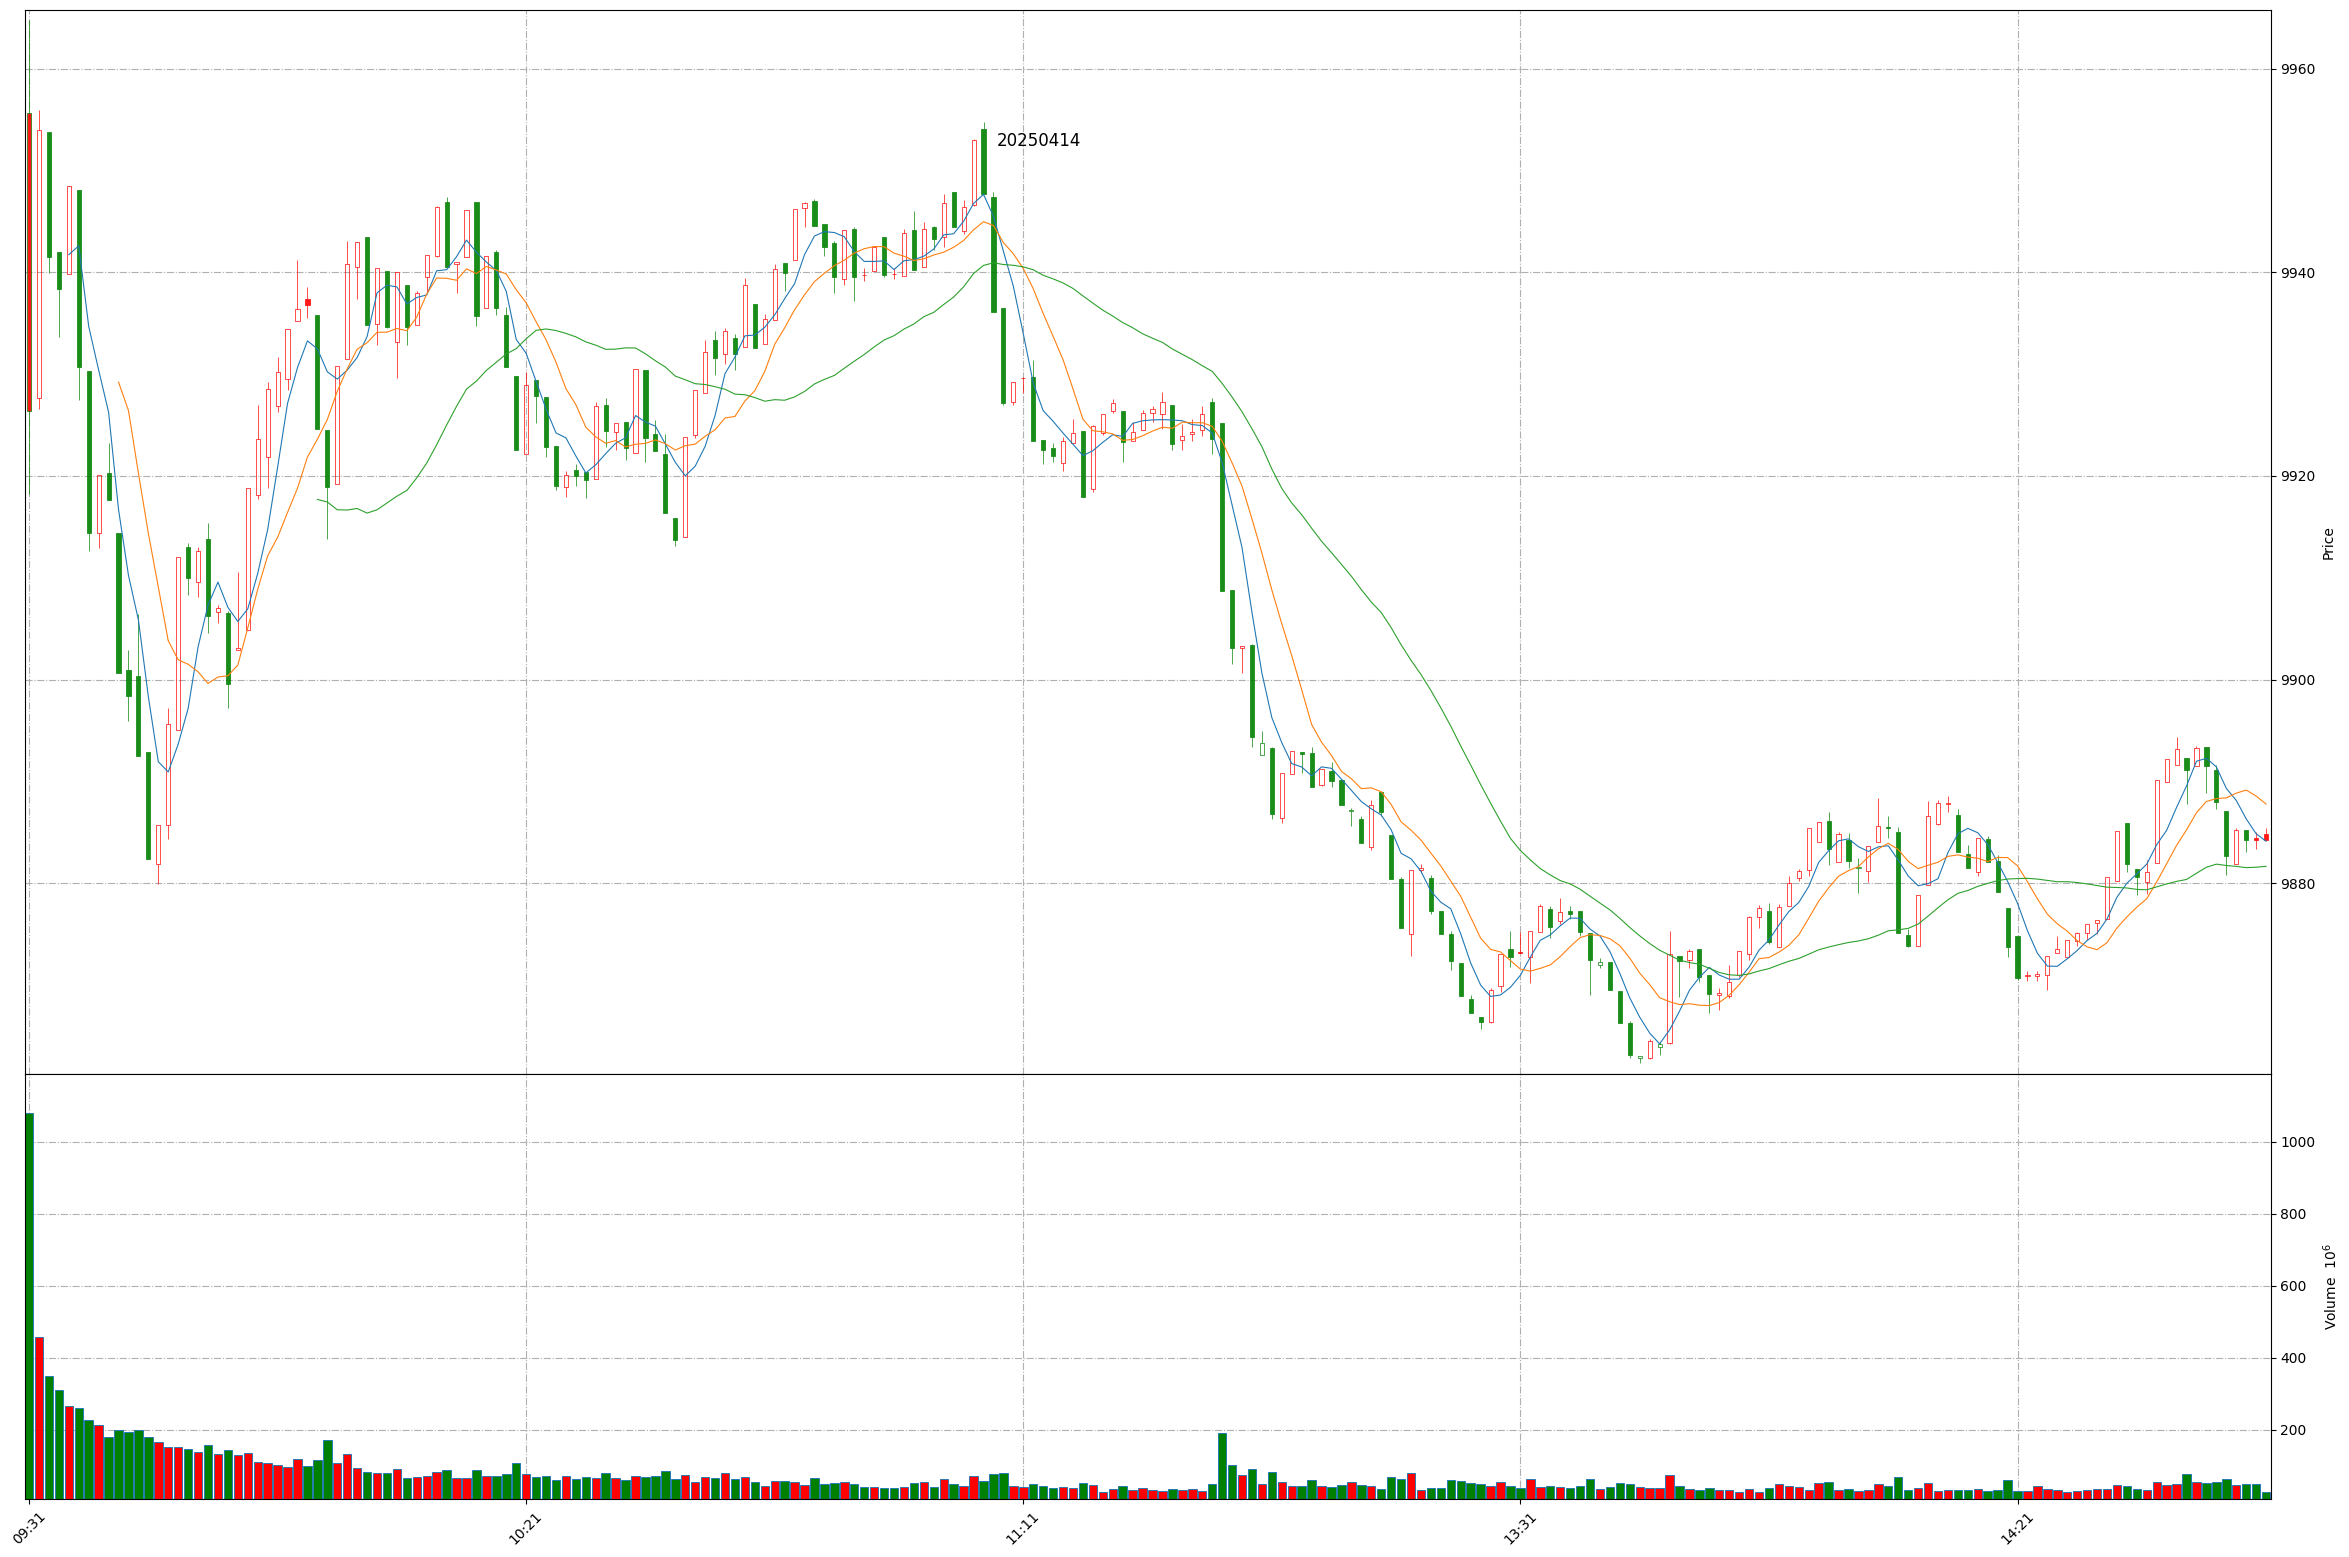
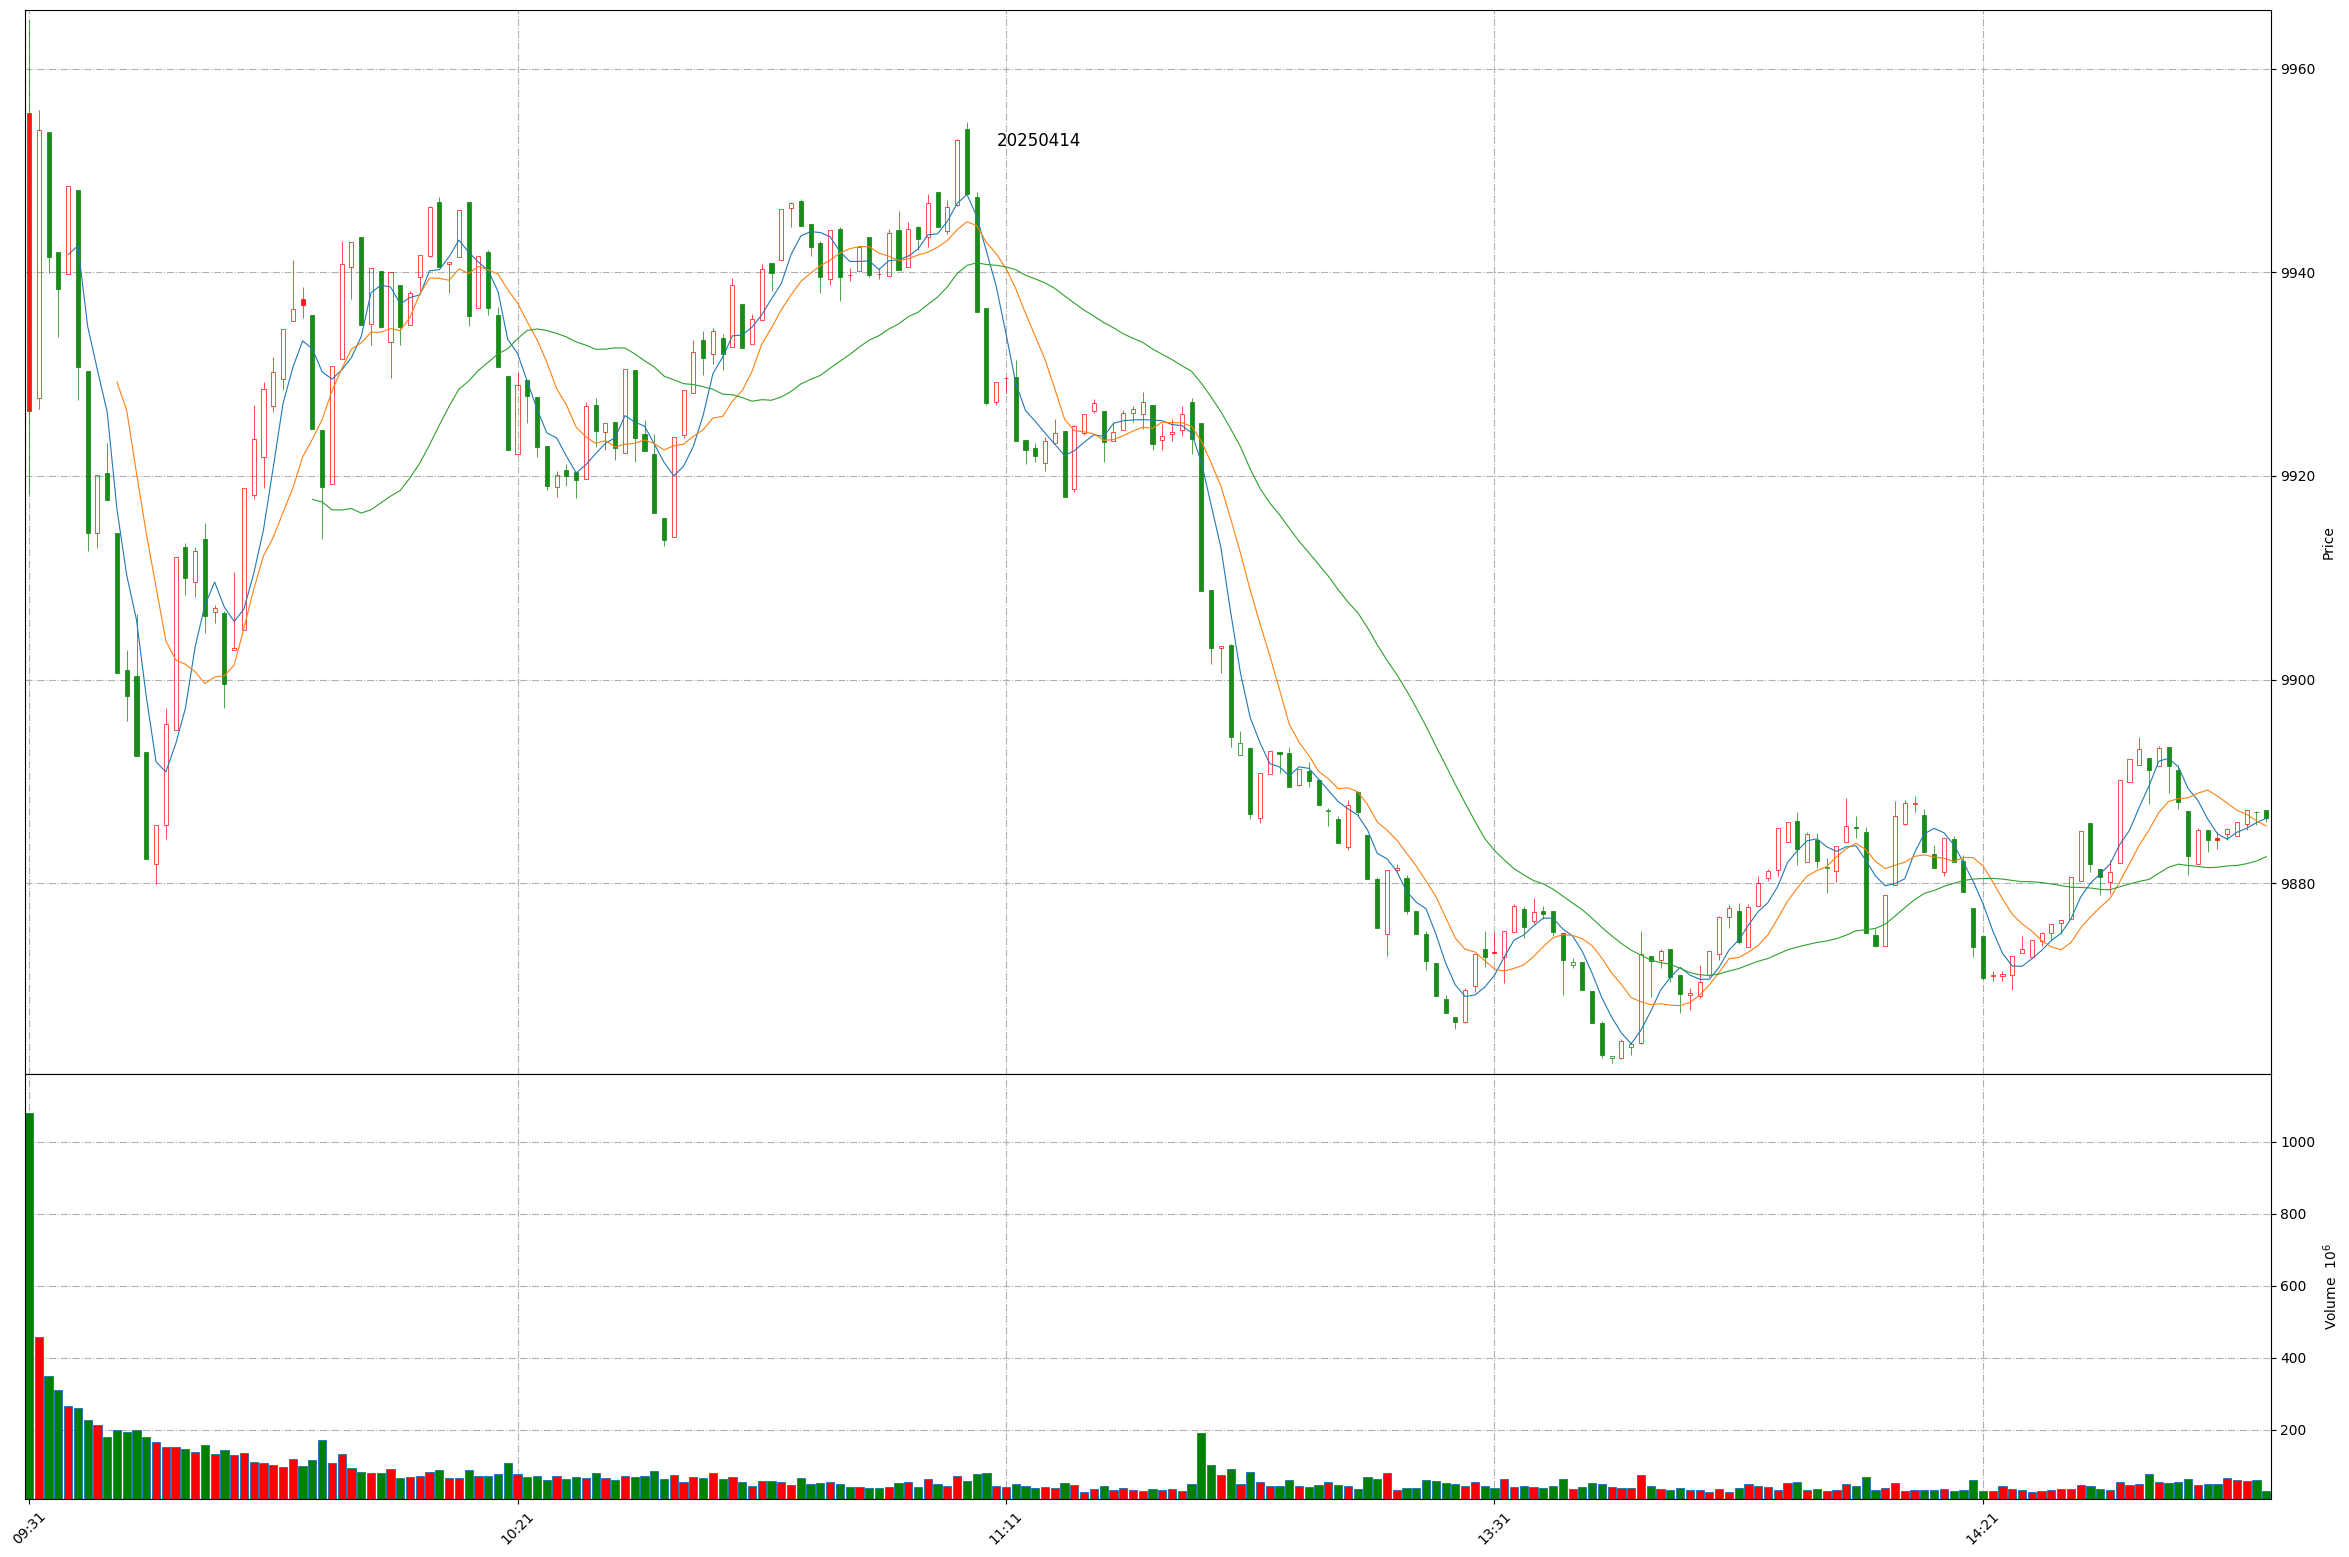
Github action update at 2025-04-14 14:49:41.

Changed region(s): [[0.0311, 0.0925, 0.9634, 0.6782], [0.0, 0.894, 0.9634, 0.9865]]

diff --git a/README.md b/README.md
@@ -1,11 +1,11 @@
 
 # Daily-A-share-market-quotes 每日 A 股指数（5min 更新）- 20250414
 
-### 上证指数 20250414 14:45
+### 上证指数 20250414 14:49
 ![](./fig/2025/4/20250414-sh000001.png)
 
-### 深证成指 20250414 14:45
+### 深证成指 20250414 14:49
 ![](./fig/2025/4/20250414-sz399001.png)
 
-### 北证50 20250414 14:45
+### 北证50 20250414 14:49
 ![](./fig/2025/4/20250414-bj899050.png)
